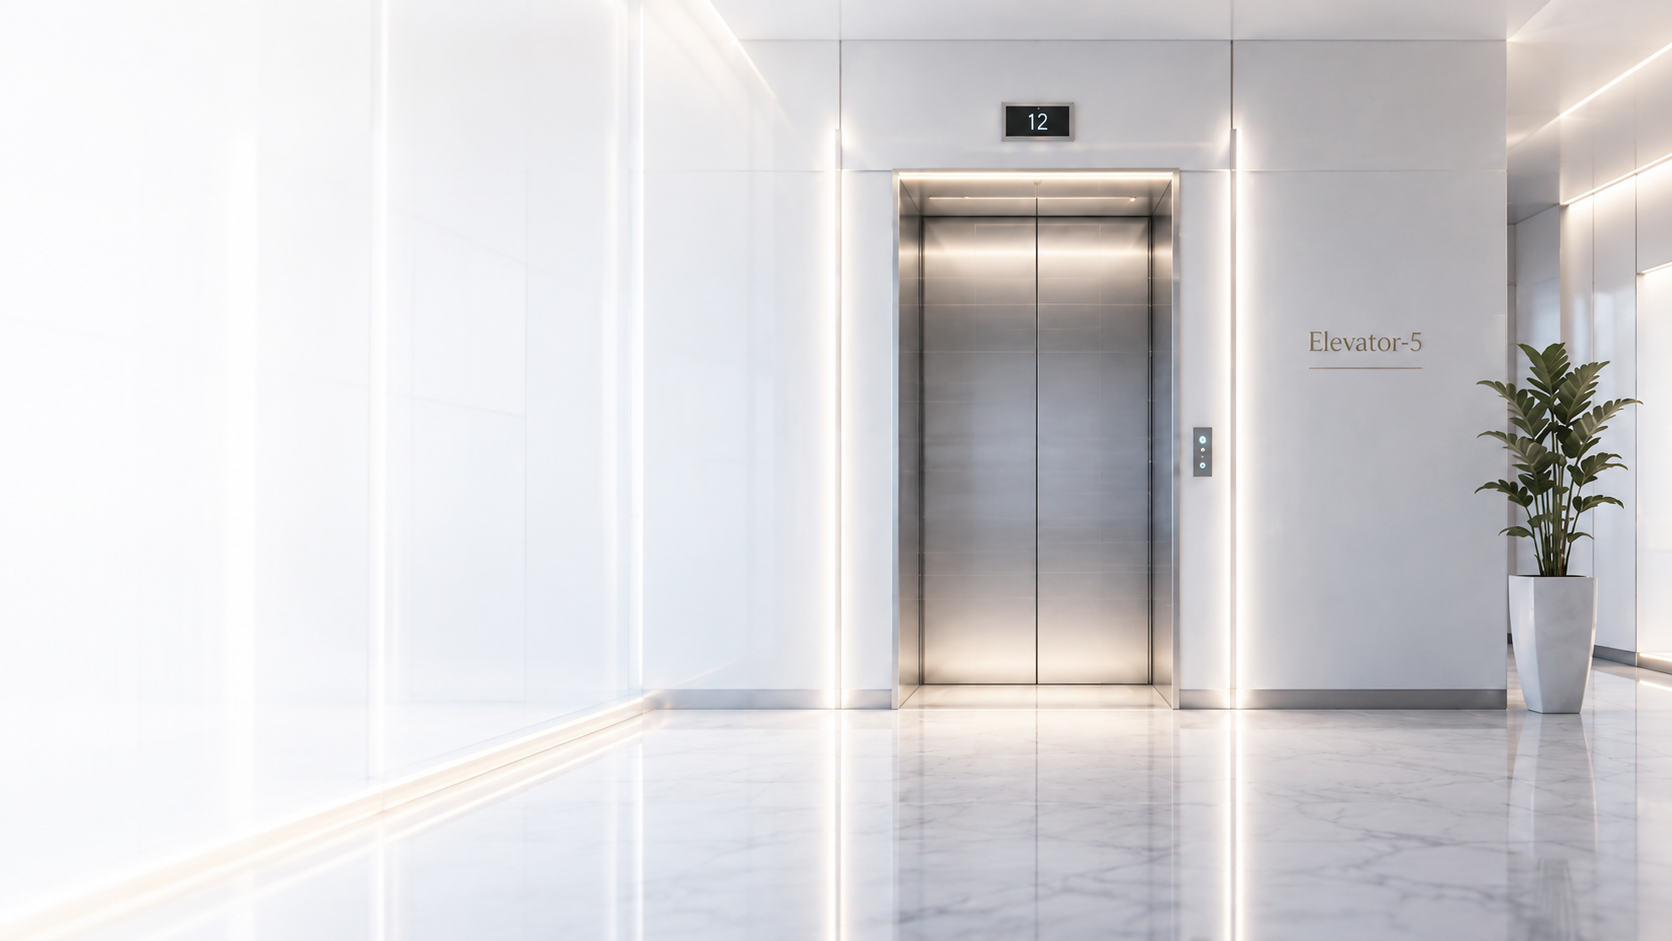
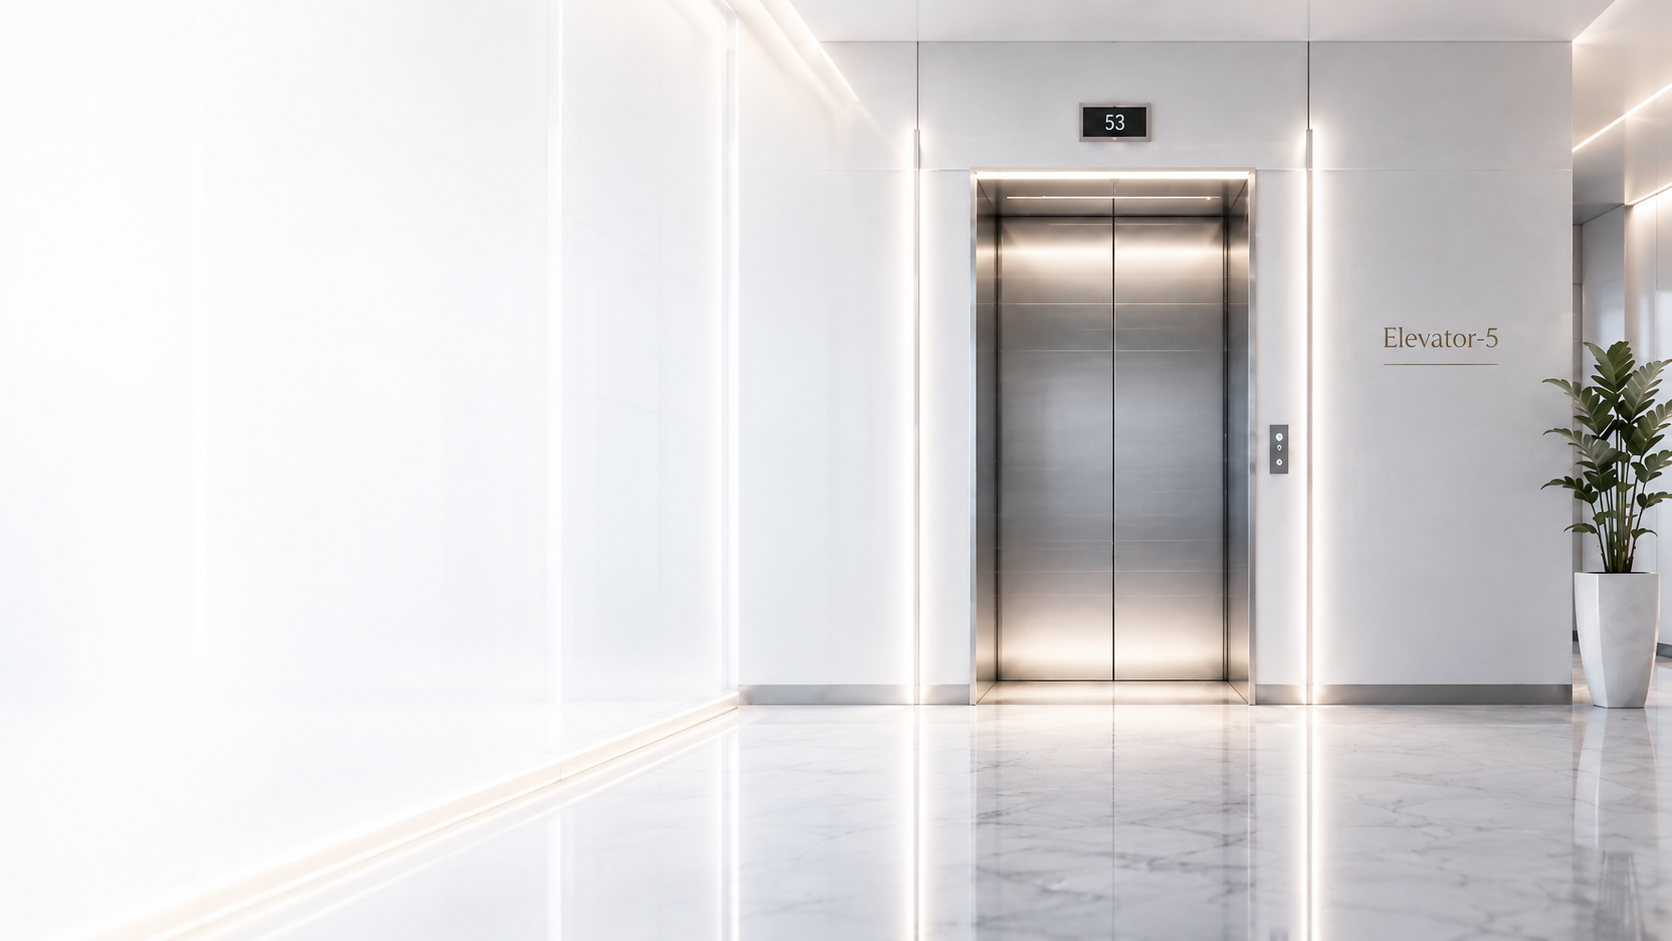
add animation on hero

diff --git a/app/globals.css b/app/globals.css
@@ -48,6 +48,48 @@ a {
   outline-offset: 3px;
 }
 
+.status-typewriter {
+  --type-delay: 0s;
+  --type-steps: 16;
+  --type-width: 18ch;
+  display: inline-block;
+  max-width: 0;
+  overflow: hidden;
+  white-space: nowrap;
+  border-right: 1px solid #4f9fc4;
+  opacity: 0;
+  animation:
+    status-type 1s steps(var(--type-steps), end) var(--type-delay) forwards,
+    status-caret 0.72s step-end var(--type-delay) 5;
+}
+
+@keyframes status-type {
+  0% {
+    max-width: 0;
+    opacity: 1;
+  }
+
+  1% {
+    opacity: 1;
+  }
+
+  100% {
+    max-width: var(--type-width);
+    opacity: 1;
+  }
+}
+
+@keyframes status-caret {
+  0%,
+  100% {
+    border-color: transparent;
+  }
+
+  50% {
+    border-color: #4f9fc4;
+  }
+}
+
 @media (prefers-reduced-motion: reduce) {
   *,
   *::before,
@@ -56,5 +98,11 @@ a {
     animation-iteration-count: 1 !important;
     scroll-behavior: auto !important;
     transition-duration: 0.01ms !important;
+  }
+
+  .status-typewriter {
+    max-width: none;
+    border-right: 0;
+    opacity: 1;
   }
 }

diff --git a/app/page.tsx b/app/page.tsx
@@ -7,24 +7,28 @@ const statusRows = [
     label: "Tenant detected",
     status: "Normal",
     color: "#58c9a3",
+    delay: "0.25s",
     Icon: UserRound
   },
   {
     label: "Age: 93",
     status: "Verified",
     color: "#4f9fc4",
+    delay: "0.85s",
     Icon: CalendarDays
   },
   {
     label: "Digital profile: incomplete",
     status: "Gap",
     color: "#e5aa42",
+    delay: "1.35s",
     Icon: FileUser
   },
   {
     label: "Prediction confidence: low",
     status: "Warning",
     color: "#d9604b",
+    delay: "2.15s",
     Icon: ChartNoAxesColumn
   }
 ];
@@ -92,10 +96,9 @@ export default function HomePage() {
                 <p className="font-mono text-[0.64rem] font-medium uppercase tracking-[0.18em] text-[#637181]">
                   System status
                 </p>
-                <span className="size-1.5 rounded-full bg-[#58c9a3]" />
               </div>
               <dl className="space-y-3 text-sm text-[#07111f]">
-                {statusRows.map(({ label, status, color, Icon }) => (
+                {statusRows.map(({ label, status, color, delay, Icon }) => (
                   <div
                     className="grid grid-cols-[1.35rem_1fr_auto] items-center gap-3 border-b border-[#e3eaf0] pb-2 last:border-b-0 last:pb-0"
                     key={label}
@@ -106,7 +109,18 @@ export default function HomePage() {
                         className="size-4 text-[#8a98a6]"
                         strokeWidth={1.7}
                       />
-                      <span className="font-medium">{label}</span>
+                      <span
+                        className="status-typewriter font-mono text-[0.82rem] font-medium tracking-[-0.01em]"
+                        style={
+                          {
+                            "--type-delay": delay,
+                            "--type-steps": label.length,
+                            "--type-width": `${label.length + 1}ch`
+                          } as React.CSSProperties
+                        }
+                      >
+                        {label}
+                      </span>
                     </dt>
                     <dd className="flex items-center gap-2 font-mono text-[0.62rem] uppercase tracking-[0.12em] text-[#637181]">
                       <span